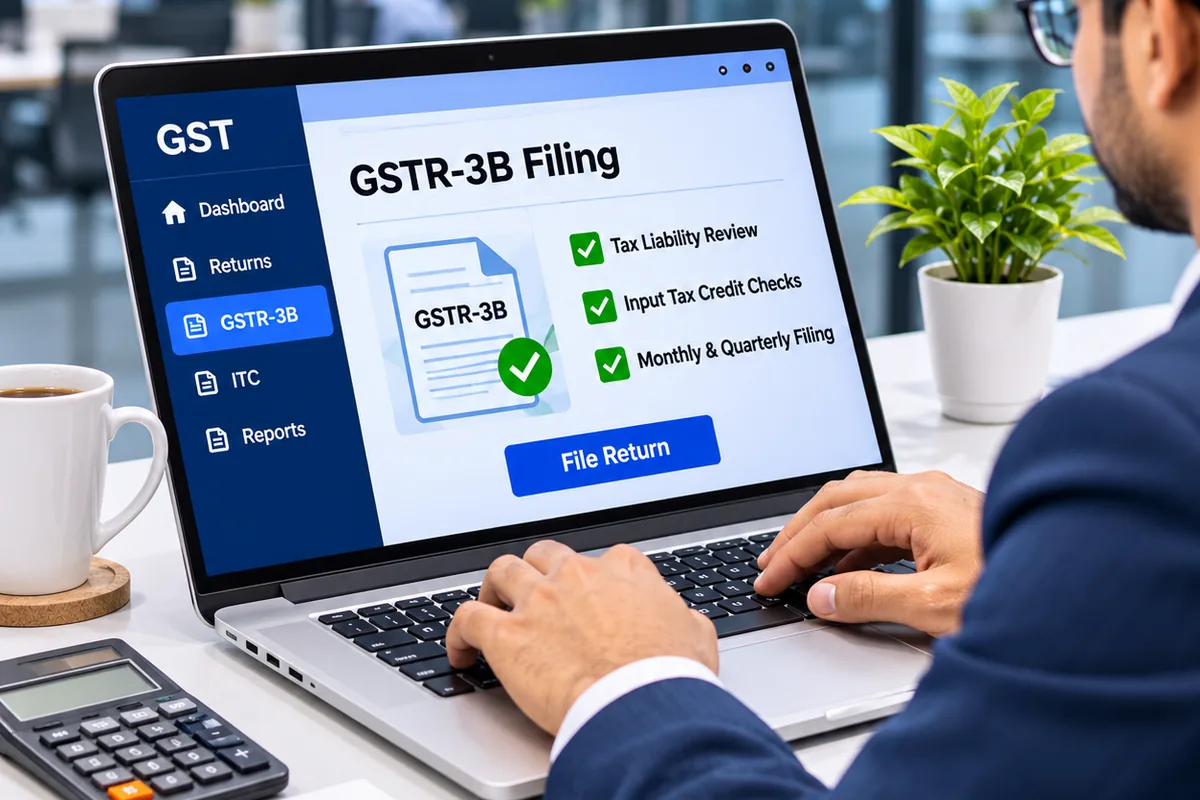
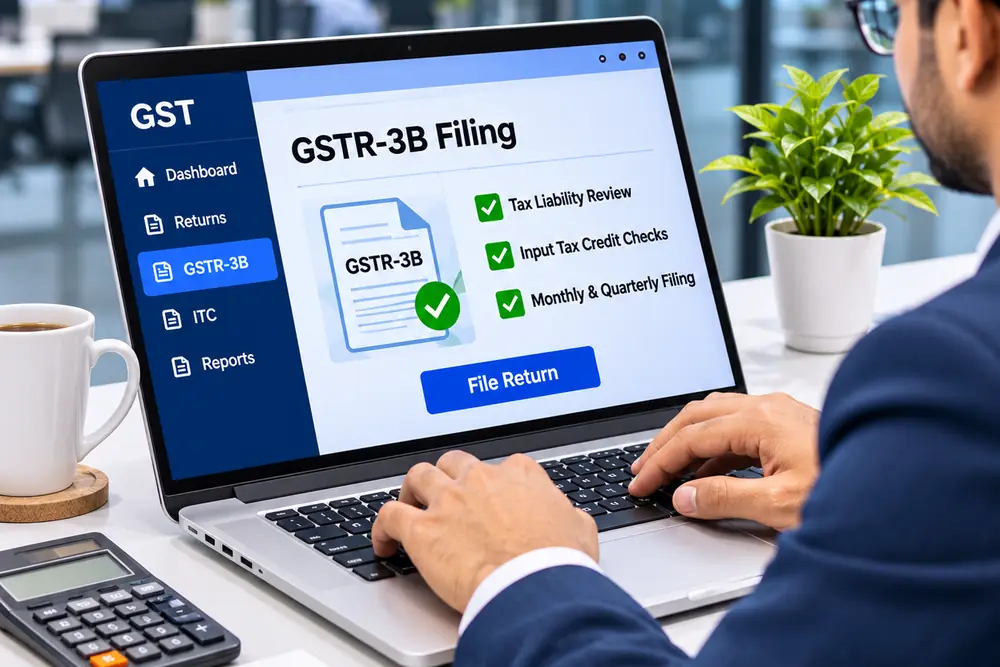
Services: GST Refund gets its own photo, and lighter files
GST Reconciliation keeps the 2A/2B screen. GST Refund moves off the
old reconciliation picture to the team-meeting shot that module-tds
was holding on its own, so all eight rows still differ.

Every service photo is re-encoded from the original: 1000x667 instead
of 1200x800, quality 74. The rows are about 500px wide, so nothing is
lost on screen:

  module-gst-2a            60 -> 39 KB
  module-gstr1-3b          64 -> 44 KB
  module-gst-reconciliation 51 -> 35 KB
  module-bank              48 -> 35 KB
  module-tds              107 -> 63 KB
  module-stock             63 -> 39 KB
  service-gstr3b           87 -> 56 KB
  service-tds              79 -> 48 KB
  service-reconciliation  108 -> 69 KB

670 KB down to 432 KB across the nine pictures.

diff --git a/docs/app/landing/service.html b/docs/app/landing/service.html
@@ -430,7 +430,7 @@ var dtShare = {"shareButtonText":{"facebook":"Share on Facebook","twitter":"Shar
 <section class="fg-tax-services" id="tax-services" aria-labelledby="fg-tax-services-title"><div class="fg-tax-wrap"><div class="fg-tax-heading"><span>GST &amp; Tax Services</span><h2 id="fg-tax-services-title">Our Professional Tax Services</h2><p>GST filing, registration, refunds, income tax and consultation services.</p></div><div class="fg-tax-list"><article class="fg-tax-row"><div class="fg-tax-photo"><img src="/assets/module-gstr1-3b.webp" alt="GSTR-1 Filing" loading="lazy"></div><div class="fg-tax-copy"><h3>GSTR-1 Filing</h3><p>Prepare accurate outward supply return details with organised sales records.</p><ul><li>Sales invoice review</li><li>Outward supplies reporting</li><li>Return filing assistance</li></ul><a href="/contact.html" aria-label="Enquire about GSTR-1 Filing">Enquire about GSTR-1 Filing <span aria-hidden="true">→</span></a></div></article>
 <article class="fg-tax-row"><div class="fg-tax-photo"><img src="/assets/service-gstr3b.webp" alt="GSTR-3B Filing, tax liability review and input tax credit checks on screen" loading="lazy"></div><div class="fg-tax-copy"><h3>GSTR-3B Filing</h3><p>Monthly and quarterly GST return preparation and filing assistance.</p><ul><li>Tax liability review</li><li>Input tax credit checks</li><li>Monthly & quarterly filing</li></ul><a href="/contact.html" aria-label="Enquire about GSTR-3B Filing">Enquire about GSTR-3B Filing <span aria-hidden="true">→</span></a></div></article>
 <article class="fg-tax-row"><div class="fg-tax-photo"><img src="/assets/module-gst-2a.webp" alt="GST Registration" loading="lazy"></div><div class="fg-tax-copy"><h3>GST Registration</h3><p>Support for registering new businesses under GST.</p><ul><li>New GST registration</li><li>Document verification</li><li>Application guidance</li></ul><a href="/contact.html" aria-label="Enquire about GST Registration">Enquire about GST Registration <span aria-hidden="true">→</span></a></div></article>
-<article class="fg-tax-row"><div class="fg-tax-photo"><img src="/assets/module-gst-reconciliation.webp" alt="GST Refund" loading="lazy"></div><div class="fg-tax-copy"><h3>GST Refund</h3><p>Assistance with GST refund applications and supporting records.</p><ul><li>Refund eligibility review</li><li>Supporting documents</li><li>Application follow-up</li></ul><a href="/contact.html" aria-label="Enquire about GST Refund">Enquire about GST Refund <span aria-hidden="true">→</span></a></div></article>
+<article class="fg-tax-row"><div class="fg-tax-photo"><img src="/assets/module-tds.webp" alt="GST Refund, team reviewing the refund working and supporting records" loading="lazy"></div><div class="fg-tax-copy"><h3>GST Refund</h3><p>Assistance with GST refund applications and supporting records.</p><ul><li>Refund eligibility review</li><li>Supporting documents</li><li>Application follow-up</li></ul><a href="/contact.html" aria-label="Enquire about GST Refund">Enquire about GST Refund <span aria-hidden="true">→</span></a></div></article>
 <article class="fg-tax-row"><div class="fg-tax-photo"><img src="/assets/module-stock.webp" alt="Income Tax Return" loading="lazy"></div><div class="fg-tax-copy"><h3>Income Tax Return</h3><p>Income tax return preparation with clear document guidance.</p><ul><li>Income & deduction review</li><li>ITR preparation</li><li>Filing support</li></ul><a href="/contact.html" aria-label="Enquire about Income Tax Return">Enquire about Income Tax Return <span aria-hidden="true">→</span></a></div></article>
 <article class="fg-tax-row"><div class="fg-tax-photo"><img src="/assets/service-tds.webp" alt="TDS Return filed successfully, team reviewing the acknowledgement" loading="lazy"></div><div class="fg-tax-copy"><h3>TDS Return</h3><p>TDS reporting and return filing assistance for businesses.</p><ul><li>TDS statement preparation</li><li>Deduction reconciliation</li><li>Return submission support</li></ul><a href="/contact.html" aria-label="Enquire about TDS Return">Enquire about TDS Return <span aria-hidden="true">→</span></a></div></article>
 <article class="fg-tax-row"><div class="fg-tax-photo"><img src="/assets/service-reconciliation.webp" alt="GST Reconciliation, 2A and 2B matched against GSTR-1 and 3B" loading="lazy"></div><div class="fg-tax-copy"><h3>GST Reconciliation</h3><p>Match GST records with purchase, sales and return information.</p><ul><li>GST 2A / 2B matching</li><li>GSTR-1 & GSTR-3B checks</li><li>Mismatch identification</li></ul><a href="/contact.html" aria-label="Enquire about GST Reconciliation">Enquire about GST Reconciliation <span aria-hidden="true">→</span></a></div></article>
@@ -510,6 +510,6 @@ wp.i18n.setLocaleData( { 'text direction\u0004ltr': [ 'ltr' ] } );
 var ElementorProFrontendConfig = {"ajaxurl":"https:\/\/the7.io\/elementor-main\/wp-admin\/admin-ajax.php","nonce":"9194888732","urls":{"assets":"https:\/\/the7.io\/elementor-main\/wp-content\/plugins\/pro-elements\/assets\/","rest":"https:\/\/the7.io\/elementor-main\/wp-json\/"},"settings":{"lazy_load_background_images":true},"popup":{"hasPopUps":true},"shareButtonsNetworks":{"facebook":{"title":"Facebook","has_counter":true},"twitter":{"title":"Twitter"},"linkedin":{"title":"LinkedIn","has_counter":true},"pinterest":{"title":"Pinterest","has_counter":true},"reddit":{"title":"Reddit","has_counter":true},"vk":{"title":"VK","has_counter":true},"odnoklassniki":{"title":"OK","has_counter":true},"tumblr":{"title":"Tumblr"},"digg":{"title":"Digg"},"skype":{"title":"Skype"},"stumbleupon":{"title":"StumbleUpon","has_counter":true},"mix":{"title":"Mix"},"telegram":{"title":"Telegram"},"pocket":{"title":"Pocket","has_counter":true},"xing":{"title":"XING","has_counter":true},"whatsapp":{"title":"WhatsApp"},"email":{"title":"Email"},"print":{"title":"Print"},"x-twitter":{"title":"X"},"threads":{"title":"Threads"}},"woocommerce":{"menu_cart":{"cart_page_url":"https:\/\/the7.io\/elementor-main\/shop-default-page\/shop-cart\/","checkout_page_url":"https:\/\/the7.io\/elementor-main\/shop-default-page\/shop-checkout\/","fragments_nonce":"27071c58ad"}},"facebook_sdk":{"lang":"en_US","app_id":""},"lottie":{"defaultAnimationUrl":"https:\/\/the7.io\/elementor-main\/wp-content\/plugins\/pro-elements\/modules\/lottie\/assets\/animations\/default.json"}};
 //# sourceURL=elementor-pro-frontend-js-before
 </script>
-<div class="the7-e-mini-cart-template"> <div class="the7-e-woo-cart-fragment the7-e-woo-cart-fragment-content the7-e-woo-cart-content the7-e-woo-cart-status-cart-empty"></div> <div class="the7-e-woo-cart-fragment the7-e-woo-cart-fragment-subtotal"> </div> </div> <div class="pswp" tabindex="-1" role="dialog" aria-hidden="true"> <div class="pswp__bg"></div> <div class="pswp__scroll-wrap"> <div class="pswp__container"> <div class="pswp__item"></div> <div class="pswp__item"></div> <div class="pswp__item"></div> </div> <div class="pswp__ui pswp__ui--hidden"> <div class="pswp__top-bar"> <div class="pswp__counter"></div> <button class="pswp__button pswp__button--close" title="Close (Esc)" aria-label="Close (Esc)"></button> <button class="pswp__button pswp__button--share" title="Share" aria-label="Share"></button> <button class="pswp__button pswp__button--fs" title="Toggle fullscreen" aria-label="Toggle fullscreen"></button> <button class="pswp__button pswp__button--zoom" title="Zoom in/out" aria-label="Zoom in/out"></button> <div class="pswp__preloader"> <div class="pswp__preloader__icn"> <div class="pswp__preloader__cut"> <div class="pswp__preloader__donut"></div> </div> </div> </div> </div> <div class="pswp__share-modal pswp__share-modal--hidden pswp__single-tap"> <div class="pswp__share-tooltip"></div> </div> <button class="pswp__button pswp__button--arrow--left" title="Previous (arrow left)" aria-label="Previous (arrow left)"> </button> <button class="pswp__button pswp__button--arrow--right" title="Next (arrow right)" aria-label="Next (arrow right)"> </button> <div class="pswp__caption"> <div class="pswp__caption__center"></div> </div> </div> </div> </div> <script defer src="../chatbot.js"></script>
+<div class="the7-e-mini-cart-template"> <div class="the7-e-woo-cart-fragment the7-e-woo-cart-fragment-content the7-e-woo-cart-content the7-e-woo-cart-status-cart-empty"></div> <div class="the7-e-woo-cart-fragment the7-e-woo-cart-fragment-subtotal"> </div> </div> <div class="pswp" tabindex="-1" role="dialog" aria-hidden="true"> <div class="pswp__bg"></div> <div class="pswp__scroll-wrap"> <div class="pswp__container"> <div class="pswp__item"></div> <div class="pswp__item"></div> <div class="pswp__item"></div> </div> <div class="pswp__ui pswp__ui--hidden"> <div class="pswp__top-bar"> <div class="pswp__counter"></div> <button class="pswp__button pswp__button--close" title="Close (Esc)" aria-label="Close (Esc)"></button> <button class="pswp__button pswp__button--share" title="Share" aria-label="Share"></button> <button class="pswp__button pswp__button--fs" title="Toggle fullscreen" aria-label="Toggle fullscreen"></button> <button class="pswp__button pswp__button--zoom" title="Zoom in/out" aria-label="Zoom in/out"></button> <div class="pswp__preloader"> <div class="pswp__preloader__icn"> <div class="pswp__preloader__cut"> <div class="pswp__preloader__donut"></div> </div> </div> </div> </div> <div class="pswp__share-modal pswp__share-modal--hidden pswp__single-tap"> <div class="pswp__share-tooltip"></div> </div> <button class="pswp__button pswp__button--arrow--left" title="Previous (arrow left)" aria-label="Previous (arrow left)"> </button> <button class="pswp__button pswp__button--arrow--right" title="Next (arrow right)" aria-label="Next (arrow right)"> </button> <div class="pswp__caption"> <div class="pswp__caption__center"></div> </div> </div> </div> </div> <script defer src="chatbot.js"></script>
 </body> 
 </html>

diff --git a/docs/app/service.html b/docs/app/service.html
@@ -430,7 +430,7 @@ var dtShare = {"shareButtonText":{"facebook":"Share on Facebook","twitter":"Shar
 <section class="fg-tax-services" id="tax-services" aria-labelledby="fg-tax-services-title"><div class="fg-tax-wrap"><div class="fg-tax-heading"><span>GST &amp; Tax Services</span><h2 id="fg-tax-services-title">Our Professional Tax Services</h2><p>GST filing, registration, refunds, income tax and consultation services.</p></div><div class="fg-tax-list"><article class="fg-tax-row"><div class="fg-tax-photo"><img src="/assets/module-gstr1-3b.webp" alt="GSTR-1 Filing" loading="lazy"></div><div class="fg-tax-copy"><h3>GSTR-1 Filing</h3><p>Prepare accurate outward supply return details with organised sales records.</p><ul><li>Sales invoice review</li><li>Outward supplies reporting</li><li>Return filing assistance</li></ul><a href="/contact.html" aria-label="Enquire about GSTR-1 Filing">Enquire about GSTR-1 Filing <span aria-hidden="true">→</span></a></div></article>
 <article class="fg-tax-row"><div class="fg-tax-photo"><img src="/assets/service-gstr3b.webp" alt="GSTR-3B Filing, tax liability review and input tax credit checks on screen" loading="lazy"></div><div class="fg-tax-copy"><h3>GSTR-3B Filing</h3><p>Monthly and quarterly GST return preparation and filing assistance.</p><ul><li>Tax liability review</li><li>Input tax credit checks</li><li>Monthly & quarterly filing</li></ul><a href="/contact.html" aria-label="Enquire about GSTR-3B Filing">Enquire about GSTR-3B Filing <span aria-hidden="true">→</span></a></div></article>
 <article class="fg-tax-row"><div class="fg-tax-photo"><img src="/assets/module-gst-2a.webp" alt="GST Registration" loading="lazy"></div><div class="fg-tax-copy"><h3>GST Registration</h3><p>Support for registering new businesses under GST.</p><ul><li>New GST registration</li><li>Document verification</li><li>Application guidance</li></ul><a href="/contact.html" aria-label="Enquire about GST Registration">Enquire about GST Registration <span aria-hidden="true">→</span></a></div></article>
-<article class="fg-tax-row"><div class="fg-tax-photo"><img src="/assets/module-gst-reconciliation.webp" alt="GST Refund" loading="lazy"></div><div class="fg-tax-copy"><h3>GST Refund</h3><p>Assistance with GST refund applications and supporting records.</p><ul><li>Refund eligibility review</li><li>Supporting documents</li><li>Application follow-up</li></ul><a href="/contact.html" aria-label="Enquire about GST Refund">Enquire about GST Refund <span aria-hidden="true">→</span></a></div></article>
+<article class="fg-tax-row"><div class="fg-tax-photo"><img src="/assets/module-tds.webp" alt="GST Refund, team reviewing the refund working and supporting records" loading="lazy"></div><div class="fg-tax-copy"><h3>GST Refund</h3><p>Assistance with GST refund applications and supporting records.</p><ul><li>Refund eligibility review</li><li>Supporting documents</li><li>Application follow-up</li></ul><a href="/contact.html" aria-label="Enquire about GST Refund">Enquire about GST Refund <span aria-hidden="true">→</span></a></div></article>
 <article class="fg-tax-row"><div class="fg-tax-photo"><img src="/assets/module-stock.webp" alt="Income Tax Return" loading="lazy"></div><div class="fg-tax-copy"><h3>Income Tax Return</h3><p>Income tax return preparation with clear document guidance.</p><ul><li>Income & deduction review</li><li>ITR preparation</li><li>Filing support</li></ul><a href="/contact.html" aria-label="Enquire about Income Tax Return">Enquire about Income Tax Return <span aria-hidden="true">→</span></a></div></article>
 <article class="fg-tax-row"><div class="fg-tax-photo"><img src="/assets/service-tds.webp" alt="TDS Return filed successfully, team reviewing the acknowledgement" loading="lazy"></div><div class="fg-tax-copy"><h3>TDS Return</h3><p>TDS reporting and return filing assistance for businesses.</p><ul><li>TDS statement preparation</li><li>Deduction reconciliation</li><li>Return submission support</li></ul><a href="/contact.html" aria-label="Enquire about TDS Return">Enquire about TDS Return <span aria-hidden="true">→</span></a></div></article>
 <article class="fg-tax-row"><div class="fg-tax-photo"><img src="/assets/service-reconciliation.webp" alt="GST Reconciliation, 2A and 2B matched against GSTR-1 and 3B" loading="lazy"></div><div class="fg-tax-copy"><h3>GST Reconciliation</h3><p>Match GST records with purchase, sales and return information.</p><ul><li>GST 2A / 2B matching</li><li>GSTR-1 & GSTR-3B checks</li><li>Mismatch identification</li></ul><a href="/contact.html" aria-label="Enquire about GST Reconciliation">Enquire about GST Reconciliation <span aria-hidden="true">→</span></a></div></article>

diff --git a/landing/service.html b/landing/service.html
@@ -430,7 +430,7 @@ var dtShare = {"shareButtonText":{"facebook":"Share on Facebook","twitter":"Shar
 <section class="fg-tax-services" id="tax-services" aria-labelledby="fg-tax-services-title"><div class="fg-tax-wrap"><div class="fg-tax-heading"><span>GST &amp; Tax Services</span><h2 id="fg-tax-services-title">Our Professional Tax Services</h2><p>GST filing, registration, refunds, income tax and consultation services.</p></div><div class="fg-tax-list"><article class="fg-tax-row"><div class="fg-tax-photo"><img src="/assets/module-gstr1-3b.webp" alt="GSTR-1 Filing" loading="lazy"></div><div class="fg-tax-copy"><h3>GSTR-1 Filing</h3><p>Prepare accurate outward supply return details with organised sales records.</p><ul><li>Sales invoice review</li><li>Outward supplies reporting</li><li>Return filing assistance</li></ul><a href="/contact.html" aria-label="Enquire about GSTR-1 Filing">Enquire about GSTR-1 Filing <span aria-hidden="true">→</span></a></div></article>
 <article class="fg-tax-row"><div class="fg-tax-photo"><img src="/assets/service-gstr3b.webp" alt="GSTR-3B Filing, tax liability review and input tax credit checks on screen" loading="lazy"></div><div class="fg-tax-copy"><h3>GSTR-3B Filing</h3><p>Monthly and quarterly GST return preparation and filing assistance.</p><ul><li>Tax liability review</li><li>Input tax credit checks</li><li>Monthly & quarterly filing</li></ul><a href="/contact.html" aria-label="Enquire about GSTR-3B Filing">Enquire about GSTR-3B Filing <span aria-hidden="true">→</span></a></div></article>
 <article class="fg-tax-row"><div class="fg-tax-photo"><img src="/assets/module-gst-2a.webp" alt="GST Registration" loading="lazy"></div><div class="fg-tax-copy"><h3>GST Registration</h3><p>Support for registering new businesses under GST.</p><ul><li>New GST registration</li><li>Document verification</li><li>Application guidance</li></ul><a href="/contact.html" aria-label="Enquire about GST Registration">Enquire about GST Registration <span aria-hidden="true">→</span></a></div></article>
-<article class="fg-tax-row"><div class="fg-tax-photo"><img src="/assets/module-gst-reconciliation.webp" alt="GST Refund" loading="lazy"></div><div class="fg-tax-copy"><h3>GST Refund</h3><p>Assistance with GST refund applications and supporting records.</p><ul><li>Refund eligibility review</li><li>Supporting documents</li><li>Application follow-up</li></ul><a href="/contact.html" aria-label="Enquire about GST Refund">Enquire about GST Refund <span aria-hidden="true">→</span></a></div></article>
+<article class="fg-tax-row"><div class="fg-tax-photo"><img src="/assets/module-tds.webp" alt="GST Refund, team reviewing the refund working and supporting records" loading="lazy"></div><div class="fg-tax-copy"><h3>GST Refund</h3><p>Assistance with GST refund applications and supporting records.</p><ul><li>Refund eligibility review</li><li>Supporting documents</li><li>Application follow-up</li></ul><a href="/contact.html" aria-label="Enquire about GST Refund">Enquire about GST Refund <span aria-hidden="true">→</span></a></div></article>
 <article class="fg-tax-row"><div class="fg-tax-photo"><img src="/assets/module-stock.webp" alt="Income Tax Return" loading="lazy"></div><div class="fg-tax-copy"><h3>Income Tax Return</h3><p>Income tax return preparation with clear document guidance.</p><ul><li>Income & deduction review</li><li>ITR preparation</li><li>Filing support</li></ul><a href="/contact.html" aria-label="Enquire about Income Tax Return">Enquire about Income Tax Return <span aria-hidden="true">→</span></a></div></article>
 <article class="fg-tax-row"><div class="fg-tax-photo"><img src="/assets/service-tds.webp" alt="TDS Return filed successfully, team reviewing the acknowledgement" loading="lazy"></div><div class="fg-tax-copy"><h3>TDS Return</h3><p>TDS reporting and return filing assistance for businesses.</p><ul><li>TDS statement preparation</li><li>Deduction reconciliation</li><li>Return submission support</li></ul><a href="/contact.html" aria-label="Enquire about TDS Return">Enquire about TDS Return <span aria-hidden="true">→</span></a></div></article>
 <article class="fg-tax-row"><div class="fg-tax-photo"><img src="/assets/service-reconciliation.webp" alt="GST Reconciliation, 2A and 2B matched against GSTR-1 and 3B" loading="lazy"></div><div class="fg-tax-copy"><h3>GST Reconciliation</h3><p>Match GST records with purchase, sales and return information.</p><ul><li>GST 2A / 2B matching</li><li>GSTR-1 & GSTR-3B checks</li><li>Mismatch identification</li></ul><a href="/contact.html" aria-label="Enquire about GST Reconciliation">Enquire about GST Reconciliation <span aria-hidden="true">→</span></a></div></article>
